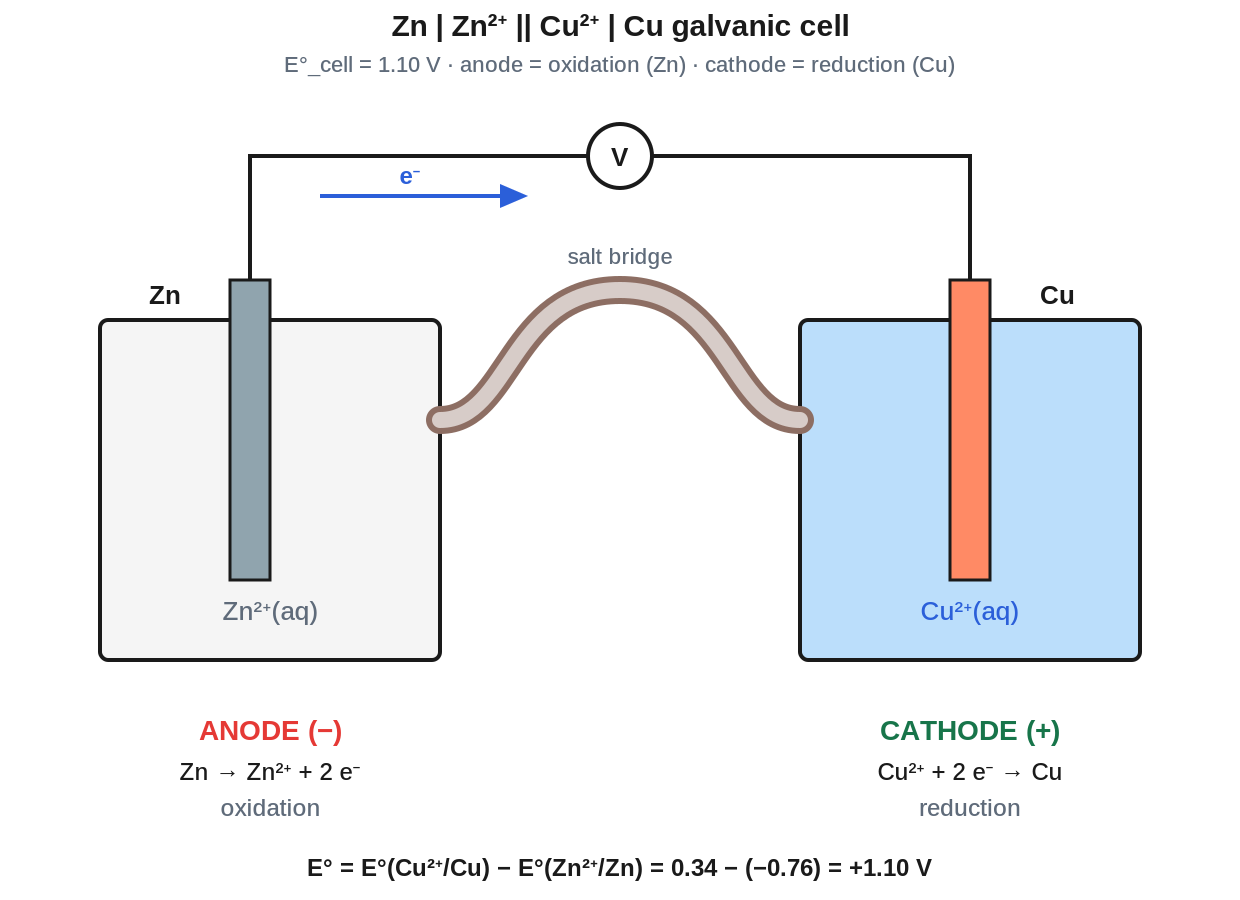
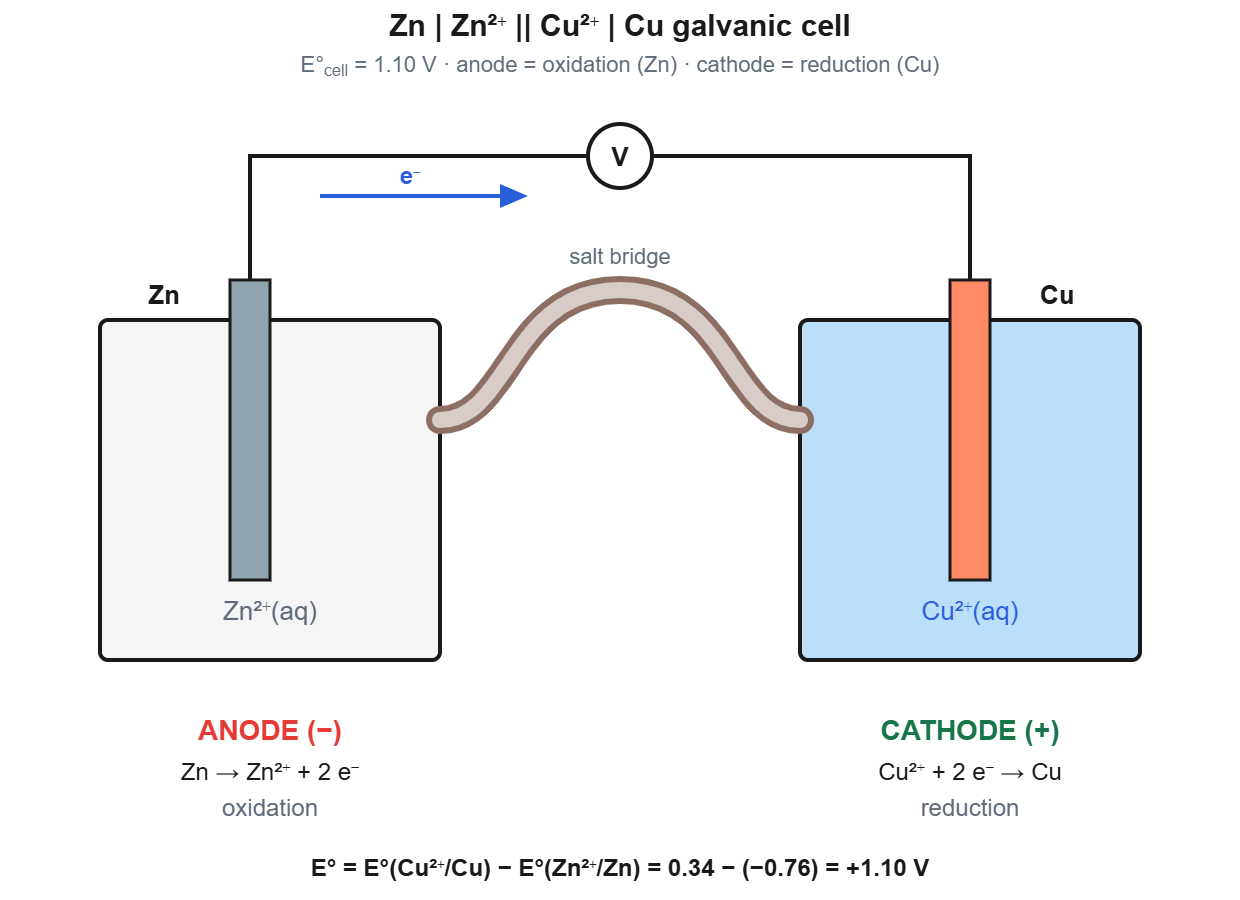
E3: galvanic subtitle subscript, spectroscopy legend LTR, Hebrew precipitation heading, progress bar via transform
- galvanic-zn-cu.svg/.png (art/ and site/art/): E°cell now a real subscript (tspan); PNG re-rendered at 1240x900
- readings.json spectroscopy SVG: direction="ltr" so the legend is not shifted out of the viewBox on RTL pages
- Hebrew solubility heading: "שיקוע (precipitation): Q לעומת Ksp" (no "?" next to the gloss)
- style.css/app.js: progress bar fill animates transform instead of width (clears layout-transition)

Claude-Session: https://claude.ai/code/session_01WowaACQHsxHJPqoZRXxSkW

diff --git a/site/app.js b/site/app.js
@@ -319,11 +319,11 @@ document.addEventListener('error', e => {
 function updateReadProgress() {
   const max = document.documentElement.scrollHeight - innerHeight;
   const pct = max > 0 ? Math.min(100, Math.max(0, 100 * scrollY / max)) : 0;
-  const fill = $('#bar div'); if (fill) fill.style.width = pct + '%';
+  const fill = $('#bar div'); if (fill) fill.style.transform = 'scaleX(' + pct / 100 + ')';
 }
 function stopReadProgress() {
   removeEventListener('scroll', updateReadProgress);
-  const fill = $('#bar div'); if (fill && view !== 'card') fill.style.width = '0%';
+  const fill = $('#bar div'); if (fill && view !== 'card') fill.style.transform = 'scaleX(0)';
 }
 
 let lightboxReturnFocus = null;
@@ -445,7 +445,7 @@ function reading(tid) {
       window.scrollTo({ top: Math.max(0, top), behavior: 'auto' });
     };
   }
-  $('#bar div').style.width = '0%';
+  $('#bar div').style.transform = 'scaleX(0)';
   removeEventListener('scroll', updateReadProgress);
   addEventListener('scroll', updateReadProgress, { passive: true });
   updateReadProgress();
@@ -470,7 +470,7 @@ function card() {
   const ss = S.session; if (!ss || !ss.queue.length) return go('home');
   const q = qL(qOf(ss.queue[0])), t = topicOf(q.topic), calc = q.type === 'calc';
   const done = ss.total - new Set(ss.queue).size;
-  setTop(T('cardNofM', done + 1, ss.total), true); $('#bar div').style.width = (100 * done / ss.total) + '%';
+  setTop(T('cardNofM', done + 1, ss.total), true); $('#bar div').style.transform = 'scaleX(' + done / ss.total + ')';
   const tip = esc(calc ? T('tipCalc') : T('tipConcept'));
   let h = `<div class="cap">${esc(tName(t))} · <span class="tag">${esc(calc ? T('calculation') : T('concept'))}</span> ${enOnly(q)}</div>
   <div class="card" style="margin-top:8px"><div${dirAttr(q)}><p style="margin:0">${tx(q.q)}</p>${calc && q.given ? `<div class="given"><div class="cap">${esc(T('given'))}</div>${q.given.map(g => `<div>${tx(g)}</div>`).join('')}</div>` : ''}</div>${reportBtn(t, 'card', q.id, q.q, q._en)}</div>

diff --git a/site/style.css b/site/style.css
@@ -4,7 +4,7 @@ body{margin:0;background:var(--bg);color:var(--text);font:17px/26px Inter,system
 .topbar{position:sticky;top:0;z-index:5;height:56px;display:flex;align-items:center;gap:8px;padding-inline:8px;background:var(--bg);border-bottom:1px solid var(--border)}
 .topbar h1{flex:1;font-size:20px;line-height:28px;margin:0;white-space:nowrap;overflow:hidden;text-overflow:ellipsis}
 .icon{min-width:48px;min-height:48px;border:0;background:none;font-size:22px;cursor:pointer;color:var(--text);border-radius:8px}
-.pbar{height:4px;background:var(--border)}.pbar div{height:100%;background:var(--knew);width:0;transition:width .15s}
+.pbar{height:4px;background:var(--border)}.pbar div{height:100%;background:var(--knew);width:100%;transform:scaleX(0);transform-origin:left;transition:transform .15s}:dir(rtl) .pbar div{transform-origin:right}
 main{max-width:680px;margin:0 auto;padding:16px}
 @media(min-width:700px){main{padding:24px}}
 .meta{font-size:15px;line-height:22px;color:var(--muted)}.cap{font-size:13px;line-height:18px;color:var(--muted)}
